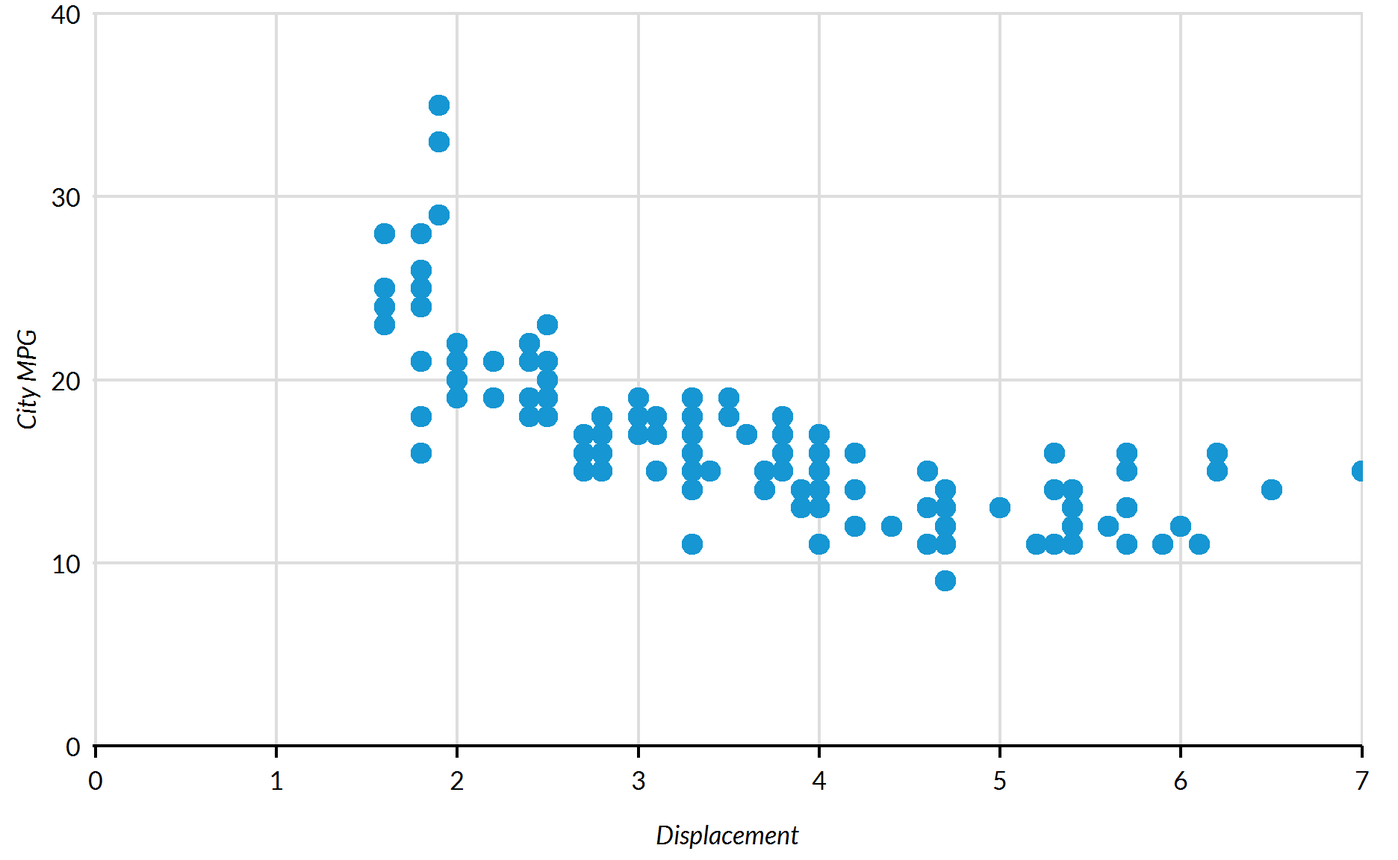
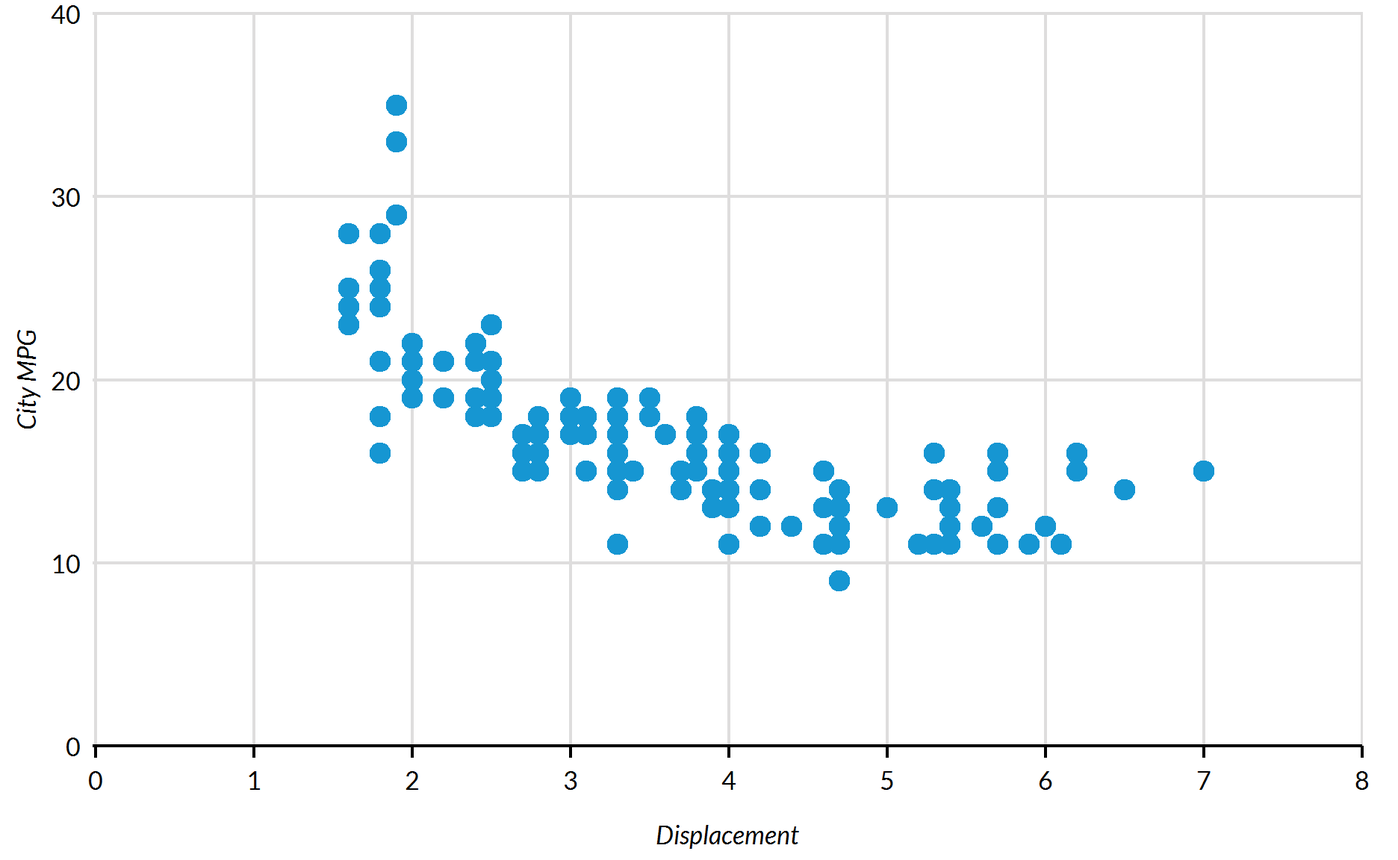
Add x-axis change.

diff --git a/optimization.html b/optimization.html
@@ -472,7 +472,7 @@ profvis({
 
 })</code></pre>
 <div id="htmlwidget-8b456f2c311110f71d08" style="width:100%;height:600px;" class="profvis html-widget"></div>
-<script type="application/json" data-for="htmlwidget-8b456f2c311110f71d08">{"x":{"message":{"prof":{"time":[1,1,1,1,1,1,1,1,1,1,1,1,1,1,1,1,1,1,1,1,1,1,1,1,1,1,1,2,2,2,3,3,3,4,4,4,5,5,5,6,6,6,7,7,7,8,8,8,9,9,9,9,9,10,10,10,10,10,11,11,11,11,11,12,12,12,12,12,13,13,13,13,13,14,14,14,14,14,14,14,14,14,14,14,14],"depth":[27,26,25,24,23,22,21,20,19,18,17,16,15,14,13,12,11,10,9,8,7,6,5,4,3,2,1,3,2,1,3,2,1,3,2,1,3,2,1,3,2,1,3,2,1,3,2,1,5,4,3,2,1,5,4,3,2,1,5,4,3,2,1,5,4,3,2,1,5,4,3,2,1,12,11,10,9,8,7,6,5,4,3,2,1],"label":["profvis","eval","eval","withVisible","withCallingHandlers","handle","timing_fn","evaluate_call","evaluate::evaluate","evaluate","in_dir","block_exec","call_block","process_group.block","process_group","withCallingHandlers","process_file","knitr::knit","rmarkdown::render","withCallingHandlers","suppressMessages","render_one","FUN","lapply","sapply","generator$render","rmarkdown::render_site","scan","read.table","read.csv","scan","read.table","read.csv","scan","read.table","read.csv","scan","read.table","read.csv","scan","read.table","read.csv","scan","read.table","read.csv","scan","read.table","read.csv",".External2","type.convert.default","type.convert","read.table","read.csv",".External2","type.convert.default","type.convert","read.table","read.csv",".External2","type.convert.default","type.convert","read.table","read.csv",".External2","type.convert.default","type.convert","read.table","read.csv",".External2","type.convert.default","type.convert","read.table","read.csv","summarise_impl","summarise.tbl_df","summarise","summarise_if","function_list[[k]]","withVisible","freduce","_fseq","eval","eval","withVisible","%>%"],"filenum":[null,null,null,null,null,null,null,null,null,null,null,null,null,null,null,null,null,null,null,null,null,null,null,null,null,null,null,null,null,1,null,null,1,null,null,1,null,null,1,null,null,1,null,null,1,null,null,1,null,null,null,null,1,null,null,null,null,1,null,null,null,null,1,null,null,null,null,1,null,null,null,null,1,null,null,null,null,null,null,null,null,null,null,null,1],"linenum":[null,null,null,null,null,null,null,null,null,null,null,null,null,null,null,null,null,null,null,null,null,null,null,null,null,null,null,null,null,5,null,null,5,null,null,5,null,null,5,null,null,5,null,null,5,null,null,5,null,null,null,null,5,null,null,null,null,5,null,null,null,null,5,null,null,null,null,5,null,null,null,null,5,null,null,null,null,null,null,null,null,null,null,null,7],"memalloc":[95.0050964355469,95.0050964355469,95.0050964355469,95.0050964355469,95.0050964355469,95.0050964355469,95.0050964355469,95.0050964355469,95.0050964355469,95.0050964355469,95.0050964355469,95.0050964355469,95.0050964355469,95.0050964355469,95.0050964355469,95.0050964355469,95.0050964355469,95.0050964355469,95.0050964355469,95.0050964355469,95.0050964355469,95.0050964355469,95.0050964355469,95.0050964355469,95.0050964355469,95.0050964355469,95.0050964355469,96.2087860107422,96.2087860107422,96.2087860107422,97.4387664794922,97.4387664794922,97.4387664794922,99.8961715698242,99.8961715698242,99.8961715698242,99.920051574707,99.920051574707,99.920051574707,104.819297790527,104.819297790527,104.819297790527,104.822845458984,104.822845458984,104.822845458984,104.831237792969,104.831237792969,104.831237792969,110.68480682373,110.68480682373,110.68480682373,110.68480682373,110.68480682373,113.743667602539,113.743667602539,113.743667602539,113.743667602539,113.743667602539,114.567276000977,114.567276000977,114.567276000977,114.567276000977,114.567276000977,114.979080200195,114.979080200195,114.979080200195,114.979080200195,114.979080200195,115.802688598633,115.802688598633,115.802688598633,115.802688598633,115.802688598633,117.453880310059,117.453880310059,117.453880310059,117.453880310059,117.453880310059,117.453880310059,117.453880310059,117.453880310059,117.453880310059,117.453880310059,117.453880310059,117.453880310059],"meminc":[0,0,0,0,0,0,0,0,0,0,0,0,0,0,0,0,0,0,0,0,0,0,0,0,0,0,0,1.20368957519531,0,0,1.22998046875,0,0,2.45740509033203,0,0,0.0238800048828125,0,0,4.89924621582031,0,0,0.00354766845703125,0,0,0.008392333984375,0,0,5.85356903076172,0,0,0,0,3.05886077880859,0,0,0,0,0.8236083984375,0,0,0,0,0.41180419921875,0,0,0,0,0.8236083984375,0,0,0,0,1.65119171142578,0,0,0,0,0,0,0,0,0,0,0],"filename":[null,null,null,null,null,null,null,null,null,null,null,null,null,null,null,null,null,null,null,null,null,null,null,null,null,null,null,null,null,"<expr>",null,null,"<expr>",null,null,"<expr>",null,null,"<expr>",null,null,"<expr>",null,null,"<expr>",null,null,"<expr>",null,null,null,null,"<expr>",null,null,null,null,"<expr>",null,null,null,null,"<expr>",null,null,null,null,"<expr>",null,null,null,null,"<expr>",null,null,null,null,null,null,null,null,null,null,null,"<expr>"]},"interval":10,"files":[{"filename":"<expr>","content":"library(profvis)\nlibrary(dplyr)\n\nprofvis({\n\tdiamonds <- read.csv(\"optimization/data/diamonds.csv\")\n\t\n\tdiamonds_by_cut <- diamonds %>%\n\t\tgroup_by(cut) %>%\n\t\tsummarise_if(is.numeric, mean)\n\n\twrite.csv(diamonds_by_cut, file = \"optimization/data/diamonds_by_cut.csv\")\t\n\n})\n","normpath":"<expr>"}],"prof_output":"D:\\Users\\AWILLI~1\\AppData\\Local\\Temp\\RtmpeMih3w\\file70106d531412.prof","highlight":{"output":["^output\\$"],"gc":["^<GC>$"],"stacktrace":["^\\.\\.stacktraceo(n|ff)\\.\\.$"]},"split":"h"}},"evals":[],"jsHooks":[]}</script>
+<script type="application/json" data-for="htmlwidget-8b456f2c311110f71d08">{"x":{"message":{"prof":{"time":[1,1,1,2,2,2,3,3,3,4,4,4,5,5,5,6,6,6,7,7,7,8,8,8,9,9,9,10,10,10,11,11,11,12,12,12,13,13,13,13,13,14,14,14,14,14,15,15,15,15,15,16,16,16,16,16,17,17,17,17,17,18,18,18,18,18,19,20,20,20,20,20,20,20],"depth":[3,2,1,3,2,1,3,2,1,3,2,1,3,2,1,3,2,1,3,2,1,3,2,1,3,2,1,3,2,1,3,2,1,3,2,1,5,4,3,2,1,5,4,3,2,1,5,4,3,2,1,5,4,3,2,1,5,4,3,2,1,5,4,3,2,1,1,7,6,5,4,3,2,1],"label":["scan","read.table","read.csv","scan","read.table","read.csv","scan","read.table","read.csv","scan","read.table","read.csv","scan","read.table","read.csv","scan","read.table","read.csv","scan","read.table","read.csv","scan","read.table","read.csv","scan","read.table","read.csv","scan","read.table","read.csv","scan","read.table","read.csv","scan","read.table","read.csv",".External2","type.convert.default","type.convert","read.table","read.csv",".External2","type.convert.default","type.convert","read.table","read.csv",".External2","type.convert.default","type.convert","read.table","read.csv",".External2","type.convert.default","type.convert","read.table","read.csv",".External2","type.convert.default","type.convert","read.table","read.csv",".External2","type.convert.default","type.convert","read.table","read.csv","lazyLoadDBfetch","close.connection","close","write.table","eval","eval","eval.parent","write.csv"],"filenum":[null,null,1,null,null,1,null,null,1,null,null,1,null,null,1,null,null,1,null,null,1,null,null,1,null,null,1,null,null,1,null,null,1,null,null,1,null,null,null,null,1,null,null,null,null,1,null,null,null,null,1,null,null,null,null,1,null,null,null,null,1,null,null,null,null,1,1,null,null,null,null,null,null,1],"linenum":[null,null,5,null,null,5,null,null,5,null,null,5,null,null,5,null,null,5,null,null,5,null,null,5,null,null,5,null,null,5,null,null,5,null,null,5,null,null,null,null,5,null,null,null,null,5,null,null,null,null,5,null,null,null,null,5,null,null,null,null,5,null,null,null,null,5,11,null,null,null,null,null,null,11],"memalloc":[95.1039733886719,95.1039733886719,95.1039733886719,96.1825485229492,96.1825485229492,96.1825485229492,97.4093627929688,97.4093627929688,97.4093627929688,97.4205169677734,97.4205169677734,97.4205169677734,99.8792572021484,99.8792572021484,99.8792572021484,99.8970031738281,99.8970031738281,99.8970031738281,99.9114837646484,99.9114837646484,99.9114837646484,104.795135498047,104.795135498047,104.795135498047,104.796714782715,104.796714782715,104.796714782715,104.799781799316,104.799781799316,104.799781799316,104.803550720215,104.803550720215,104.803550720215,104.808891296387,104.808891296387,104.808891296387,110.04296875,110.04296875,110.04296875,110.04296875,110.04296875,113.719306945801,113.719306945801,113.719306945801,113.719306945801,113.719306945801,114.336875915527,114.336875915527,114.336875915527,114.336875915527,114.336875915527,114.954719543457,114.954719543457,114.954719543457,114.954719543457,114.954719543457,115.366523742676,115.366523742676,115.366523742676,115.366523742676,115.366523742676,115.778327941895,115.778327941895,115.778327941895,115.778327941895,115.778327941895,117.438858032227,117.567337036133,117.567337036133,117.567337036133,117.567337036133,117.567337036133,117.567337036133,117.567337036133],"meminc":[0,0,0,1.07857513427734,0,0,1.22681427001953,0,0,0.0111541748046875,0,0,2.458740234375,0,0,0.0177459716796875,0,0,0.0144805908203125,0,0,4.88365173339844,0,0,0.00157928466796875,0,0,0.0030670166015625,0,0,0.0037689208984375,0,0,0.005340576171875,0,0,5.23407745361328,0,0,0,0,3.67633819580078,0,0,0,0,0.617568969726562,0,0,0,0,0.617843627929688,0,0,0,0,0.41180419921875,0,0,0,0,0.41180419921875,0,0,0,0,1.66053009033203,0.12847900390625,0,0,0,0,0,0],"filename":[null,null,"<expr>",null,null,"<expr>",null,null,"<expr>",null,null,"<expr>",null,null,"<expr>",null,null,"<expr>",null,null,"<expr>",null,null,"<expr>",null,null,"<expr>",null,null,"<expr>",null,null,"<expr>",null,null,"<expr>",null,null,null,null,"<expr>",null,null,null,null,"<expr>",null,null,null,null,"<expr>",null,null,null,null,"<expr>",null,null,null,null,"<expr>",null,null,null,null,"<expr>","<expr>",null,null,null,null,null,null,"<expr>"]},"interval":10,"files":[{"filename":"<expr>","content":"library(profvis)\nlibrary(dplyr)\n\nprofvis({\n\tdiamonds <- read.csv(\"optimization/data/diamonds.csv\")\n\t\n\tdiamonds_by_cut <- diamonds %>%\n\t\tgroup_by(cut) %>%\n\t\tsummarise_if(is.numeric, mean)\n\n\twrite.csv(diamonds_by_cut, file = \"optimization/data/diamonds_by_cut.csv\")\t\n\n})\n","normpath":"<expr>"}],"prof_output":"D:\\Users\\AWILLI~1\\AppData\\Local\\Temp\\RtmpwXVjw3\\file71a835076c8a.prof","highlight":{"output":["^output\\$"],"gc":["^<GC>$"],"stacktrace":["^\\.\\.stacktraceo(n|ff)\\.\\.$"]},"split":"h"}},"evals":[],"jsHooks":[]}</script>
 <p>In this toy example it looks like the <code>read.csv</code> function is the bottleneck, so work on optimizing that first.</p>
 <p>Once you find the bottleneck that needs to be optimized, it can be useful to benchmark different potential solutions. The <code>microbenchmark</code> package can help you choose between different options. Continuing with the simple example with the <code>diamonds</code> dataset, compare the base <code>read.csv</code> function with <code>read_csv</code> from the <code>readr</code> package.</p>
 <pre class="r"><code>library(microbenchmark)
@@ -483,11 +483,11 @@ microbenchmark(
 )</code></pre>
 <pre><code>## Unit: milliseconds
 ##                                               expr       min        lq
-##         read.csv(&quot;optimization/data/diamonds.csv&quot;) 134.20627 149.93685
-##  readr::read_csv(&quot;optimization/data/diamonds.csv&quot;)  57.50311  64.90305
-##       mean    median        uq       max neval cld
-##  160.21026 157.05230 167.89867 379.52642   100   b
-##   70.68493  69.77197  74.81797  94.65384   100  a</code></pre>
+##         read.csv(&quot;optimization/data/diamonds.csv&quot;) 139.59076 156.49029
+##  readr::read_csv(&quot;optimization/data/diamonds.csv&quot;)  61.08622  68.05215
+##       mean    median        uq      max neval cld
+##  169.39449 166.89585 178.48188 365.2868   100   b
+##   73.78583  72.91201  78.43261 101.8212   100  a</code></pre>
 <p>In this case, <code>read_csv</code> is about twice as fast as the base R implementations.</p>
 </div>
 <div id="parallel-computing" class="section level1">
@@ -548,12 +548,12 @@ microbenchmark::microbenchmark(
   unit = &quot;s&quot;
 )</code></pre>
 <pre><code>## Unit: seconds
-##        expr         min          lq          mean       median          uq
-##  sequential 0.000002643 0.000003021 0.00000625679 0.0000058525 0.000007174
-##    parallel 0.031939922 0.037181121 0.04078799092 0.0399983390 0.042520111
+##        expr         min          lq         mean       median          uq
+##  sequential 0.000002643 0.000003021 0.0000069063 0.0000058525 0.000006797
+##    parallel 0.034266114 0.037746717 0.0411717654 0.0405609140 0.042872004
 ##          max neval cld
-##  0.000037379   100  a 
-##  0.079052760   100   b</code></pre>
+##  0.000070605   100  a 
+##  0.077409965   100   b</code></pre>
 <p>Parallelization was actually slower. In this case, the overhead of setting the code to run in parallel far outweighed any performance gain. In general, parallelization works well on long-running &amp; compute intensive jobs.</p>
 </div>
 <div id="a-somewhat-more-complex-example" class="section level2">
@@ -570,7 +570,7 @@ system.time(
          )
   )</code></pre>
 <pre><code>##    user  system elapsed 
-##   48.48    0.56   49.11</code></pre>
+##   49.53    1.93   51.68</code></pre>
 <p>A now running the same code in parallel:</p>
 <pre class="r"><code>library(future.apply)
 plan(multiprocess)
@@ -581,7 +581,7 @@ system.time(
                 )
   )</code></pre>
 <pre><code>##    user  system elapsed 
-##    0.07    0.17   27.30</code></pre>
+##    0.08    0.18   27.97</code></pre>
 <p>While we didn’t achieve perfect scaling, we still get a nice bump in execution time.</p>
 </div>
 <div id="additional-packages" class="section level2">
@@ -747,8 +747,8 @@ microbenchmark::microbenchmark(
 )</code></pre>
 <pre><code>## Unit: microseconds
 ##          expr     min       lq       mean    median       uq       max
-##   bad_loop(x) 976.389 1059.832 1716.67792 1221.9965 1528.770 15426.264
-##  good_loop(x)   9.062   10.572   89.15178   13.0265   19.257  7306.304
+##   bad_loop(x) 978.276 1128.171 1835.92115 1412.1020 1757.576 15070.219
+##  good_loop(x)   9.063   11.706   71.15693   18.8795   23.410  5227.419
 ##  neval cld
 ##    100   b
 ##    100  a</code></pre>
@@ -760,12 +760,12 @@ microbenchmark::microbenchmark(
   good_loop(y)
 )</code></pre>
 <pre><code>## Unit: microseconds
-##          expr       min         lq        mean     median        uq
-##   bad_loop(y) 13800.837 17647.1150 22467.98759 23231.5230 26257.535
-##  good_loop(y)    20.767    23.2215    37.84039    37.5685    46.819
-##        max neval cld
-##  34211.744   100   b
-##     75.891   100  a</code></pre>
+##          expr       min         lq        mean    median         uq
+##   bad_loop(y) 14319.615 24816.3610 32441.91279 30270.131 35818.1040
+##  good_loop(y)    21.522    25.1095    42.71474    42.288    51.3495
+##         max neval cld
+##  253261.143   100   b
+##      81.555   100  a</code></pre>
 </div>
 <div id="vectorized-functions" class="section level2">
 <h2>Vectorized Functions</h2>
@@ -780,9 +780,9 @@ microbenchmark::microbenchmark(
   sqrt(x)
 )</code></pre>
 <pre><code>## Unit: nanoseconds
-##             expr   min    lq     mean  median    uq   max neval cld
-##  lapply(x, sqrt) 33604 35114 41087.36 35680.5 49462 66830   100   b
-##          sqrt(x)   755  1133  1801.51  1133.0  1511 17369   100  a</code></pre>
+##             expr   min    lq     mean median    uq   max neval cld
+##  lapply(x, sqrt) 34737 37380 45640.82  38512 55503 97790   100   b
+##          sqrt(x)   756  1133  2107.38   1511  1889 28318   100  a</code></pre>
 </div>
 </div>
 

diff --git a/graphics-guide.html b/graphics-guide.html
@@ -445,14 +445,14 @@ div.tocify {
 <h2>Urban Institute R Graphics Guide</h2>
 <hr />
 <p>R is a powerful, open-source programming language and environment. R excels at data management and munging, traditional statistical analysis, machine learning, and reproducible research, but it is probably best known for its graphics. This guide contains examples and instructions for popular and lesser-known plotting techniques in R. It also includes instructions for using <code>urbnthemes</code>, the Urban Institute’s R package for creating near-publication-ready plots with <code>ggplot2</code>. If you have any questions, please don’t hesitate to contact Aaron Williams (<a href="mailto:awilliams@urban.org">awilliams@urban.org</a>) or Kyle Ueyama (<a href="mailto:kueyama@urban.org">kueyama@urban.org</a>).</p>
-<div id="background" class="section level4">
-<h4>Background</h4>
+<div id="background" class="section level3">
+<h3>Background</h3>
 <p><code>library(urbnthemes)</code> makes <code>ggplot2</code> output align more closely with <a href="http://urbaninstitute.github.io/graphics-styleguide/">the Urban Institute’s Data Visualization style guide</a>. This package does <strong>not produce publication ready graphics</strong>. Visual styles must still be edited using your project/paper’s normal editing workflow.</p>
-<p>Exporting charts as a pdf will allow them to be more easily edited. You may need to tweak pdf export options to preserve fonts. For example, in RStudio on OSX, check this option in the export pdf window: <img src="graphics-guide/www/images/pdf_export_option.png" width="241" /></p>
+<p>Exporting charts as a pdf will allow them to be more easily edited. See the Saving Plots section for more information.</p>
 <p>The theme has been tested against <code>ggplot2 version 3.0.0</code>. It will not function properly with older versions of <code>ggplot2</code></p>
 </div>
-<div id="using-libraryurbnthemes" class="section level4">
-<h4>Using library(urbnthemes)</h4>
+<div id="using-libraryurbnthemes" class="section level3">
+<h3>Using library(urbnthemes)</h3>
 <p>Run the following code to install or update <code>urbnthemes</code>:</p>
 <pre><code>install.packages(&quot;devtools&quot;)
 devtools::install_github(&quot;UI-Research/urbnthemes&quot;)</code></pre>
@@ -469,8 +469,8 @@ set_urbn_defaults(style = &quot;print&quot;)</code></pre>
 urbnthemes::lato_install()</code></pre>
 <p>Loading and importing fonts may take a few minutes.</p>
 </div>
-<div id="grammar-of-graphics-and-conventions" class="section level4">
-<h4>Grammar of Graphics and Conventions</h4>
+<div id="grammar-of-graphics-and-conventions" class="section level3">
+<h3>Grammar of Graphics and Conventions</h3>
 <p>Hadley Wickham’s ggplot2 is based on Leland Wilkinson’s <a href="https://www.amazon.com/Grammar-Graphics-Statistics-Computing/dp/0387245448"><em>The Grammar of Graphics</em></a> and Wickham’s <a href="http://vita.had.co.nz/papers/layered-grammar.html"><em>A Layered Grammar of Graphics</em></a>. The layered grammar of graphics is a structured way of thinking about the components of a plot, which then lend themselves to the simple structure of ggplot2.</p>
 <ul>
 <li><strong>Data</strong> are what are visualizaed in a plot and <strong>mappings</strong> are directions for how data are mapped in a plot in a way that can be perceived by humans.<br />
@@ -485,14 +485,12 @@ urbnthemes::lato_install()</code></pre>
 </ul>
 <p>More information: <a href="https://www.amazon.com/ggplot2-Elegant-Graphics-Data-Analysis/dp/0387981403">ggplot2: Elegant Graphics for Data Analysis</a></p>
 </div>
-<div id="tips-and-tricks" class="section level4">
-<h4>Tips and Tricks</h4>
+<div id="tips-and-tricks" class="section level3">
+<h3>Tips and Tricks</h3>
 <ul>
 <li><p><code>ggplot2</code> expects data to be in data frames or tibbles. It is preferable for the data frames to be “tidy” with each variable as a column, each obseravtion as a row, and each observational unit as a separate table. <code>dplyr</code> and <code>tidyr</code> contain concise and effective tools for “tidying” data.</p></li>
 <li><p>R allows function arguments to be called explicitly by name and implicitly by position. The coding examples in this guide only contain named arguments for clarity.</p></li>
-<li><p>Continuous legends should be switched to vertical using <code>theme(legend.direction = &quot;vertical&quot;)</code>.</p></li>
 <li><p>Graphics will sometimes render differently on different operating systems. This is because anti-aliasing is activated in R on Mac and Linux but not activated in R on Windows. This won’t be an issue once graphics are saved.</p></li>
-<li><p>Most features of plots can be adjusted by adding <code>theme()</code> to the end of a ggplot call. For example, a plot with a continuous legend would look like this:</p></li>
 <li><p>Continuous x-axes have ticks. Discrete x-axes do not have ticks. Use <code>remove_ticks()</code> to remove ticks.</p></li>
 </ul>
 </div>
@@ -512,7 +510,7 @@ urbnthemes::lato_install()</code></pre>
        y = NULL) +
   remove_ticks() +
   remove_axis() </code></pre>
-<p><img src="graphics-guide/www/images/barplots-2.png" width="624" /></p>
+<p><img src="graphics-guide/www/images/barplots-1.png" width="624" /></p>
 </div>
 <div id="one-color-rotated" class="section level3">
 <h3>One Color (Rotated)</h3>
@@ -704,8 +702,8 @@ urbnthemes::lato_install()</code></pre>
   ggplot(mapping = aes(x = displ, y = cty)) +
   geom_point() +
   scale_x_continuous(expand = expand_scale(mult = c(0.002, 0)), 
-                     limits = c(0, 7),
-                     breaks = 0:7) +
+                     limits = c(0, 8),
+                     breaks = 0:8) +
   scale_y_continuous(expand = expand_scale(mult = c(0, 0.002)), 
                      limits = c(0, 40),
                      breaks = 0:4 * 10) +
@@ -721,8 +719,8 @@ mpg %&gt;%
   ggplot(mapping = aes(x = displ, y = cty)) +
   geom_jitter() +
   scale_x_continuous(expand = expand_scale(mult = c(0.002, 0)), 
-                     limits = c(0, 7),
-                     breaks = 0:7) +
+                     limits = c(0, 8),
+                     breaks = 0:8) +
   scale_y_continuous(expand = expand_scale(mult = c(0, 0.002)), 
                      limits = c(0, 40),
                      breaks = 0:4 * 10) +
@@ -750,7 +748,8 @@ mpg %&gt;%
                labels = scales::comma) +
   labs(x = &quot;Household income&quot;,
        y = &quot;Homeownership rate&quot;) +
-  scatter_grid()</code></pre>
+  scatter_grid() +
+  theme(plot.margin = margin(r = 20))</code></pre>
 <p><img src="graphics-guide/www/images/geom_point-size-1.png" width="624" /></p>
 </div>
 <div id="scatter-plots-with-fill" class="section level3">
@@ -1598,7 +1597,7 @@ mpg %&gt;%
 <h2>Saving Plots</h2>
 <hr />
 <p><code>ggsave()</code> exports ggplot2 plots. The function can be used in two ways. If <code>plot =</code> isn’t specified in the function call, then <code>ggsave()</code> automatically saves the plot that was last displayed in the Viewer window. Second, if <code>plot =</code> is specified, then <code>ggsave()</code> saves the specified plot. <code>ggsave()</code> guesses the type of graphics device to use in export (.png, .pdf, .svg, etc.) from the file extension in the filename.</p>
-<pre class="r"><code>mtcars %&gt;%
+<pre><code>mtcars %&gt;%
   ggplot(aes(x = wt, y = mpg)) +
   geom_point()
 
@@ -1610,7 +1609,12 @@ plot2 &lt;- mtcars %&gt;%
 
 ggsave(filename = &quot;cars.png&quot;, plot = plot2)</code></pre>
 <p>Exported plots rarely look identical to the plots that show up in the Viewer window in RStudio because the overall size and aspect ratio of the Viewer is often different than the defaults for <code>ggsave()</code>. Specific sizes, aspect ratios, and resolutions can be controlled with arguments in <code>ggsave()</code>. RStudio has a useful <a href="https://www.rstudio.com/resources/cheatsheets/">cheatsheet</a> called “How Big is Your Graph?” that should help with choosing the best size, aspect ratio, and resolution.</p>
-<p>In general, .svg files appear crisper than .png or .pdf files. However, .png and .pdf are more stable in web browsers.</p>
+<p>Fonts are not embedded in PDFs by default. To embed fonts in PDFs, include <code>device = cairo_pdf</code> in <code>ggsave()</code>.</p>
+<pre><code>plot &lt;- mtcars %&gt;%
+  ggplot(aes(x = wt, y = mpg)) +
+  geom_point()
+
+ggsave(filename = &quot;cars.png&quot;, plot = plot2, width = 10, height = 6, device = cairo_pdf)</code></pre>
 </div>
 <div id="bibliography-and-session-information" class="section level2">
 <h2>Bibliography and Session Information</h2>
@@ -1656,24 +1660,24 @@ ggsave(filename = &quot;cars.png&quot;, plot = plot2)</code></pre>
 ## 
 ## loaded via a namespace (and not attached):
 ##  [1] Rcpp_1.0.0          lubridate_1.7.4     lattice_0.20-38    
-##  [4] png_0.1-7           assertthat_0.2.0    digest_0.6.18      
-##  [7] R6_2.3.0            cellranger_1.1.0    plyr_1.8.4         
-## [10] backports_1.1.3     evaluate_0.12       httr_1.4.0         
-## [13] pillar_1.3.1        rlang_0.3.1         lazyeval_0.2.1     
-## [16] readxl_1.2.0        rstudioapi_0.9.0    extrafontdb_1.0    
-## [19] Matrix_1.2-15       rmarkdown_1.11      labeling_0.3       
-## [22] extrafont_0.17      munsell_0.5.0       broom_0.5.1        
-## [25] compiler_3.5.1      modelr_0.1.2        xfun_0.4           
-## [28] pkgconfig_2.0.2     mgcv_1.8-26         htmltools_0.3.6    
-## [31] tidyselect_0.2.5    gridExtra_2.3       crayon_1.3.4       
-## [34] withr_2.1.2         grid_3.5.1          nlme_3.1-137       
-## [37] jsonlite_1.6        Rttf2pt1_1.3.7      gtable_0.2.0       
-## [40] magrittr_1.5        scales_1.0.0        cli_1.0.1          
-## [43] stringi_1.2.4       reshape2_1.4.3      xml2_1.2.0         
-## [46] generics_0.0.2      RColorBrewer_1.1-2  tools_3.5.1        
-## [49] glue_1.3.0          urbnmapr_0.0.0.9001 hms_0.4.2          
-## [52] yaml_2.2.0          colorspace_1.4-0    rvest_0.3.2        
-## [55] bindr_0.1.1         haven_2.0.0</code></pre>
+##  [4] assertthat_0.2.0    digest_0.6.18       R6_2.3.0           
+##  [7] cellranger_1.1.0    plyr_1.8.4          backports_1.1.3    
+## [10] evaluate_0.12       httr_1.4.0          pillar_1.3.1       
+## [13] rlang_0.3.1         lazyeval_0.2.1      readxl_1.2.0       
+## [16] rstudioapi_0.9.0    extrafontdb_1.0     Matrix_1.2-15      
+## [19] rmarkdown_1.11      labeling_0.3        extrafont_0.17     
+## [22] munsell_0.5.0       broom_0.5.1         compiler_3.5.1     
+## [25] modelr_0.1.2        xfun_0.4            pkgconfig_2.0.2    
+## [28] mgcv_1.8-26         htmltools_0.3.6     tidyselect_0.2.5   
+## [31] gridExtra_2.3       crayon_1.3.4        withr_2.1.2        
+## [34] grid_3.5.1          nlme_3.1-137        jsonlite_1.6       
+## [37] Rttf2pt1_1.3.7      gtable_0.2.0        magrittr_1.5       
+## [40] scales_1.0.0        cli_1.0.1           stringi_1.2.4      
+## [43] reshape2_1.4.3      xml2_1.2.0          generics_0.0.2     
+## [46] RColorBrewer_1.1-2  tools_3.5.1         glue_1.3.0         
+## [49] urbnmapr_0.0.0.9001 hms_0.4.2           yaml_2.2.0         
+## [52] colorspace_1.4-0    rvest_0.3.2         bindr_0.1.1        
+## [55] haven_2.0.0</code></pre>
 </div>
 <div class="footnotes">
 <hr />

diff --git a/styles.css b/styles.css
@@ -62,10 +62,15 @@ p {
 }
 
 .tocify {
-	border-radius: 0px;
+	border-radius: 0;
 }
 
 /* Button Formatting */
 .btn {
 	border-radius: 0;	
+}
+
+/* tabs formatting */
+.nav-tabs>li>a {
+	border-radius: 0;
 }
